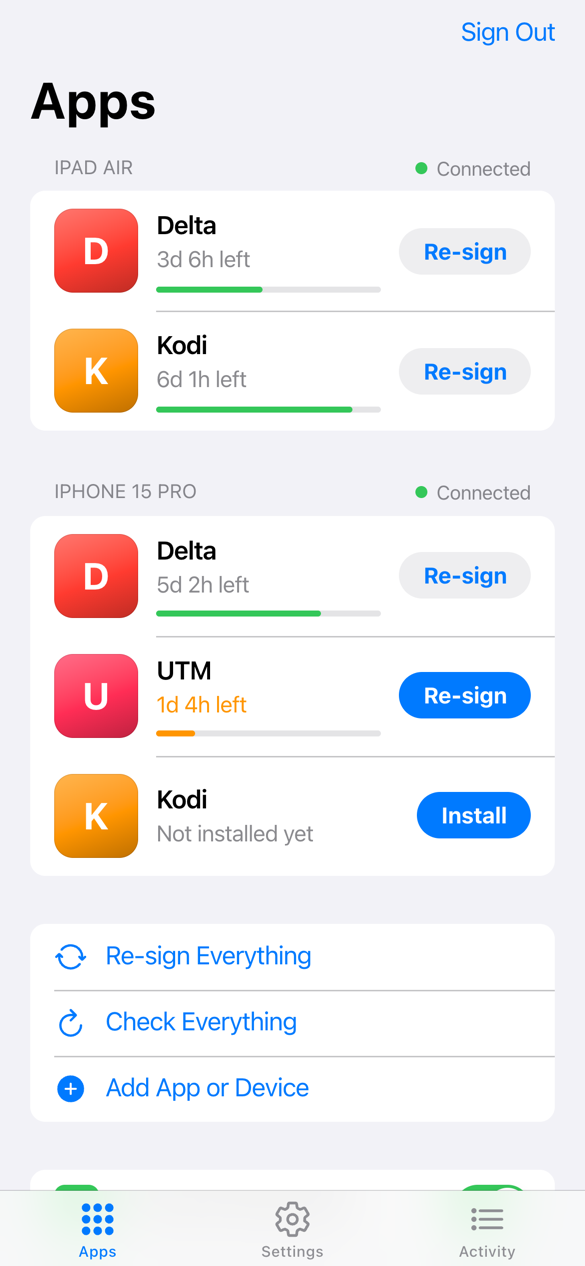
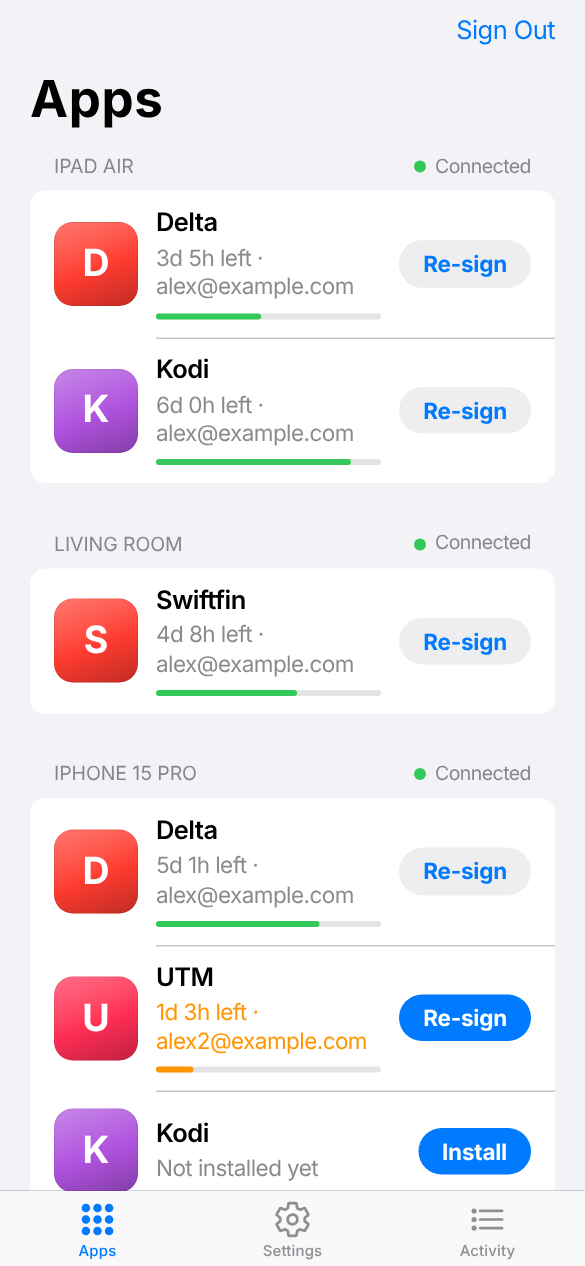
Refresh the screenshots and docs
New screenshots from the current page with demo data (Apple TV, groups, several
Apple IDs), README and guide text brought up to date, troubleshooting for adding
an app from a link. A long Apple ID in an app row no longer runs over the button.

diff --git a/sideloop/index.html b/sideloop/index.html
@@ -71,7 +71,7 @@ button.cell:active:not(:disabled){background:var(--fill-3)}
 .approw{position:relative;display:flex;gap:12px;align-items:center;padding:12px 16px}
 .approw .mid{flex:1;min-width:0}
 .approw .nm{font-size:17px;font-weight:600;white-space:nowrap;overflow:hidden;text-overflow:ellipsis}
-.approw .st{font-size:15px;color:var(--label-2);margin-top:1px}
+.approw .st{font-size:15px;color:var(--label-2);margin-top:1px;overflow-wrap:anywhere}
 .st.warn{color:var(--orange)} .st.bad{color:var(--red)}
 .meter{position:relative;height:4px;border-radius:2px;background:var(--fill);margin-top:8px;max-width:300px}
 .meter>i{position:absolute;inset:0 auto 0 0;border-radius:2px;background:var(--green)}

diff --git a/docs/UGOS-NAS-GUIDE.md b/docs/UGOS-NAS-GUIDE.md
@@ -1,6 +1,6 @@
 # Sideloop on a UGREEN NAS (UGOS Pro)
 
-Install and automatically re-sign iPhone apps (IPAs) from your NAS, with a free Apple ID, and without a Mac or PC. Written and tested on a **UGREEN NASync DXP4800** running **UGOS Pro** with the Docker app. The same steps work on other x86 NAS systems that have a Docker GUI; only the menu names differ.
+Install and automatically re-sign iPhone, iPad and Apple TV apps (IPAs) from your NAS, with a free Apple ID, and without a Mac or PC. Written and tested on a **UGREEN NASync DXP4800** running **UGOS Pro** with the Docker app. The same steps work on other x86 NAS systems that have a Docker GUI; only the menu names differ.
 
 **Time:** about 30 minutes, most of it waiting for the first build.
 
@@ -11,6 +11,7 @@ Install and automatically re-sign iPhone apps (IPAs) from your NAS, with a free 
 | NAS | UGOS Pro with the **Docker** app installed (App Center). Intel/AMD CPU. For an ARM NAS see the note in [`nas/docker-compose.ugos.yml`](../nas/docker-compose.ugos.yml) |
 | Apple ID | A **free, throwaway** Apple ID with two-factor authentication on. Don't use your main one: its password is stored on the NAS (see [Security](#security)) |
 | iPhone / iPad | Plus a USB cable for the one-time pairing |
+| Apple TV (optional) | tvOS 17 or newer, on the same network as the NAS. No cable: it is paired with a PIN (section 10) |
 | IPA | An **unencrypted (decrypted)** `.ipa`. Apps straight from the App Store are FairPlay-encrypted and won't launch; Sideloop warns you about that when you add the file |
 
 ## How it works (60 seconds)
@@ -58,6 +59,8 @@ You can add **more than one** (Settings → Apple IDs). The first one that has r
 
 Settings → Groups lets you make sets of devices, for example *Family iPads*. Tie an app to a group (the chips under the app) and it only goes to that group's devices. Apps that aren't tied to a group go to every device, including ones you add later.
 
+<img src="../.github/screenshots/groups.png" width="220" alt="Groups and apps in Settings" />
+
 ## 6. Add an IPA
 
 Press **Add App…** and choose the `.ipa`, or paste a link to one under it and press **Get**: the NAS downloads the file itself (handy for GitHub releases and vendor downloads, and for files that are large to upload). Sideloop shows what it found (encryption, tweaks, extensions).
@@ -84,6 +87,8 @@ Leave **Automatic** on. Sideloop re-signs when less than the *Re-sign Early* tim
 
 While you are troubleshooting, **switch Automatic off**: every automatic attempt that reaches Apple can make your iPhone show an *Apple ID sign-in requested* prompt.
 
+<img src="../.github/screenshots/apps.png" width="220" alt="The Apps page: time left per app and device" />
+
 ## 10. Apple TV (optional)
 
 An Apple TV with **tvOS 17 or newer** can be kept signed the same way. It is paired differently from an iPhone (no cable, a PIN instead) and only takes **tvOS apps**; your iPhone and iPad apps are not touched by any of this.
@@ -93,6 +98,9 @@ An Apple TV with **tvOS 17 or newer** can be kept signed the same way. It is pai
 3. In Sideloop: **Settings → Pair Apple TV…**, pick the TV in the list, then type the **PIN** from the TV screen when the page asks for it.
 4. **Add App…** with a tvOS `.ipa`. The page says *Apple TV app* and offers it only to Apple TVs (it reads this from the app's binary, so a tvOS build that claims iOS in its Info.plist is still recognised). A new Apple TV joins an empty group that only holds tvOS apps; otherwise change its groups under Settings → Groups.
 5. Press **Install**. The first sign-in with an Apple ID on the Apple TV needs a 2FA code in the web page, even if that Apple ID already works for your iPhone. After that the Apple TV is re-signed by itself while it is on and awake on the network.
+6. If the Apple TV says the developer isn't trusted when you open the app, trust it in **Settings → General → Device Management**.
+
+<img src="../.github/screenshots/appletv.png" width="220" alt="Pairing an Apple TV: the PIN box" />
 
 **Good to know:** the free limits (3 apps per device, 10 App IDs a week) apply to the Apple TV too. A tvOS update can drop the pairing, so pair again if the TV stops showing up as *Connected*. Turning off *Automatically Update tvOS* (Settings → System → Software Updates) helps. If the page says the Apple TV helper isn't installed, the image was built without it (the download or its checksum check failed); redeploy the project to try again.
 

diff --git a/README.md b/README.md
@@ -33,7 +33,7 @@ A small self-hosted service with a web UI for any Linux machine (amd64 or arm64)
 
 - [x] Multiple apps on multiple iPhones and iPads
 - [x] Automatic re-signing when a device comes online, before the signature expires
-- [x] Web UI for pairing, adding IPAs (upload or paste a link), 2FA codes and live progress
+- [x] Web UI for pairing, adding IPAs (upload them or paste a link and the server downloads the file), 2FA codes and live progress
 - [x] Checks each IPA for FairPlay encryption, tweaks and app extensions
 - [x] Apple sign-in through any anisette v3 server: public ones, or your own [anisette-v3-server](https://github.com/Dadoum/anisette-v3-server). `ANISETTE_SERVER` can list several; a failing server is set aside for 15 minutes and the next one is used
 - [x] Optional removal of app extensions so free Apple IDs can install apps that have them
@@ -50,9 +50,15 @@ A two-minute narrated walkthrough: setup, adding devices and apps, the first ins
 
 ## Screenshots
 
+Made with demo data: made-up devices and Apple IDs.
+
 | Login | Apps | Signing | Settings | Activity |
 | :---: | :---: | :---: | :---: | :---: |
 | <img src=".github/screenshots/login.png" width="160" /> | <img src=".github/screenshots/apps.png" width="160" /> | <img src=".github/screenshots/signing.png" width="160" /> | <img src=".github/screenshots/settings.png" width="160" /> | <img src=".github/screenshots/activity.png" width="160" /> |
+
+| Pair an Apple TV | Groups and apps |
+| :---: | :---: |
+| <img src=".github/screenshots/appletv.png" width="160" /> | <img src=".github/screenshots/groups.png" width="160" /> |
 
 ## Quick Start
 
@@ -100,7 +106,7 @@ An Apple TV with tvOS 17 or newer is not reached like an iPhone: it has no USB o
 1. Put the Apple TV and the machine running Sideloop on the **same network** (same subnet, no guest Wi-Fi, no client isolation). Sideloop has to run with `network_mode: host`, as in the compose files.
 2. On the Apple TV open **Settings > Remotes and Devices > Remote App and Devices**. It waits there and shows a PIN when something asks to pair.
 3. In Sideloop open **Settings**, press **Pair Apple TV…**, choose the TV in the list and type the PIN it shows when the page asks for it.
-4. Add a **tvOS** `.ipa` the usual way. Sideloop reads what the app's binary was built for (some tvOS builds claim iOS in their Info.plist), shows *Apple TV app* and only offers it to Apple TVs; iPhone apps are never offered to an Apple TV. A new Apple TV joins an empty group that only holds tvOS apps; otherwise it gets the tvOS apps that aren't tied to a group.
+4. Add a **tvOS** `.ipa` the usual way (upload it, or paste a link to it and the server downloads it). Sideloop reads what the app's binary was built for (some tvOS builds claim iOS in their Info.plist), shows *Apple TV app* and only offers it to Apple TVs; iPhone apps are never offered to an Apple TV. A new Apple TV joins an empty group that only holds tvOS apps; otherwise it gets the tvOS apps that aren't tied to a group.
 5. Press **Install** next to it. The first sign-in of an Apple ID for the Apple TV needs a 2FA code, entered on the web page (a free Apple ID is signed in separately for iOS and for tvOS, so an Apple ID that already works for your iPhone still asks once). After that the Apple TV is re-signed automatically when it is on and on the network.
 
 Limits and things to know:

diff --git a/docs/TROUBLESHOOTING.md b/docs/TROUBLESHOOTING.md
@@ -41,6 +41,17 @@ Apple TV signing is a separate path from the iPhone one (plumesign instead of Al
 | `skipped: an Apple TV only takes tvOS apps` / `a tvOS app can't go on an iPhone or iPad` | An app of the other kind was pointed at the device | Harmless. Sideloop only offers each app to devices that fit it |
 | The Apple TV asks to trust the developer, or the app disappears after a week | The signature ran out, or another Apple ID signed it | Check that **Automatic** is on and that the TV was on and awake on the network during the last days; press **Re-sign** to do it now |
 
+## Add from a link
+
+Pasting a link under **Add App…** makes the NAS download the file itself. The link has to be a direct download of the `.ipa` (a GitHub *release* page is not; its *asset* link is). Only `http(s)` links work.
+
+| You see | What it means | What to do |
+| --- | --- | --- |
+| `The server answered 404` (or 403) | The link is wrong, has expired or needs a login | Copy the download link again from the site |
+| `Couldn't reach the link: …` | The NAS can't reach that site (DNS, a firewall, no internet) | Check internet access from the NAS; open the link from another device to see if it works at all |
+| `not an IPA (an IPA is a zip file)` | The link gave something else, often a web page | Use the link of the `.ipa` file itself |
+| `That file is too large` | Over the 4 GB limit | Use a smaller build |
+
 ## Run AltServer by hand and see the real error
 
 The web UI hides most of AltServer's output. To see everything, open **Docker → Container → `sideloop` → Terminal → `/bin/bash`** and run (the UDID comes from `idevice_id -l`; replace `<bundle-id>`):
